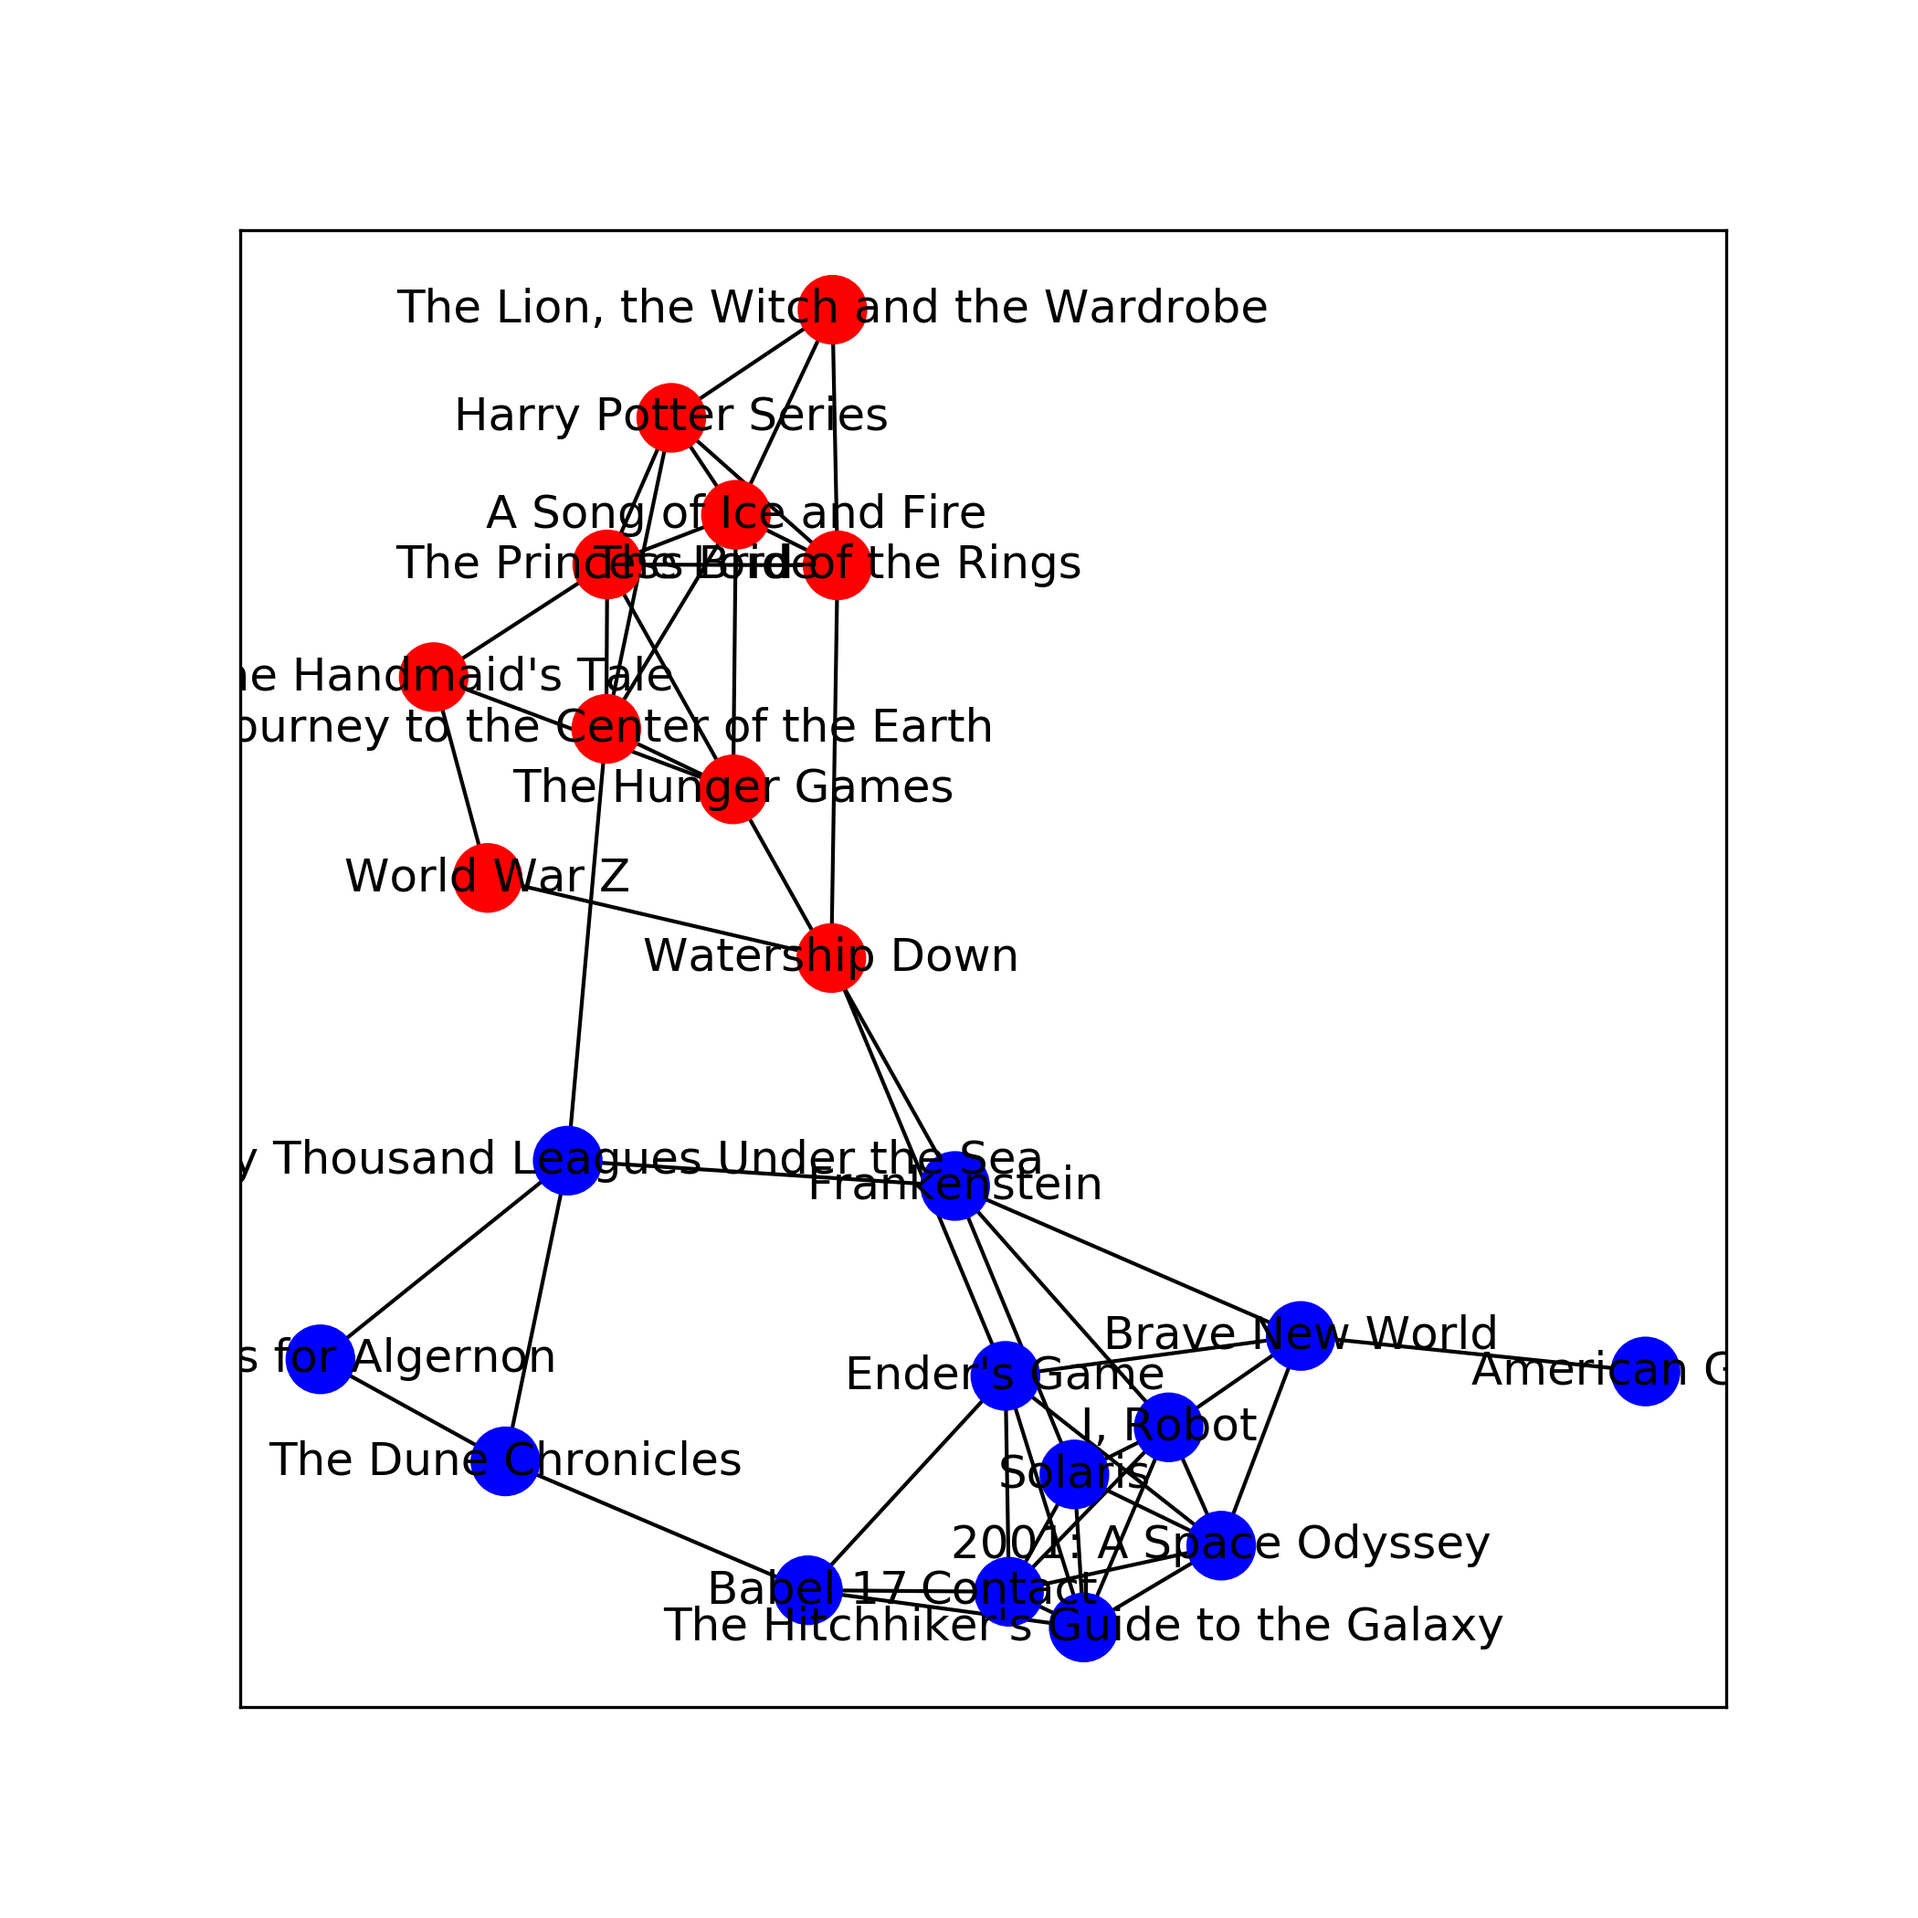
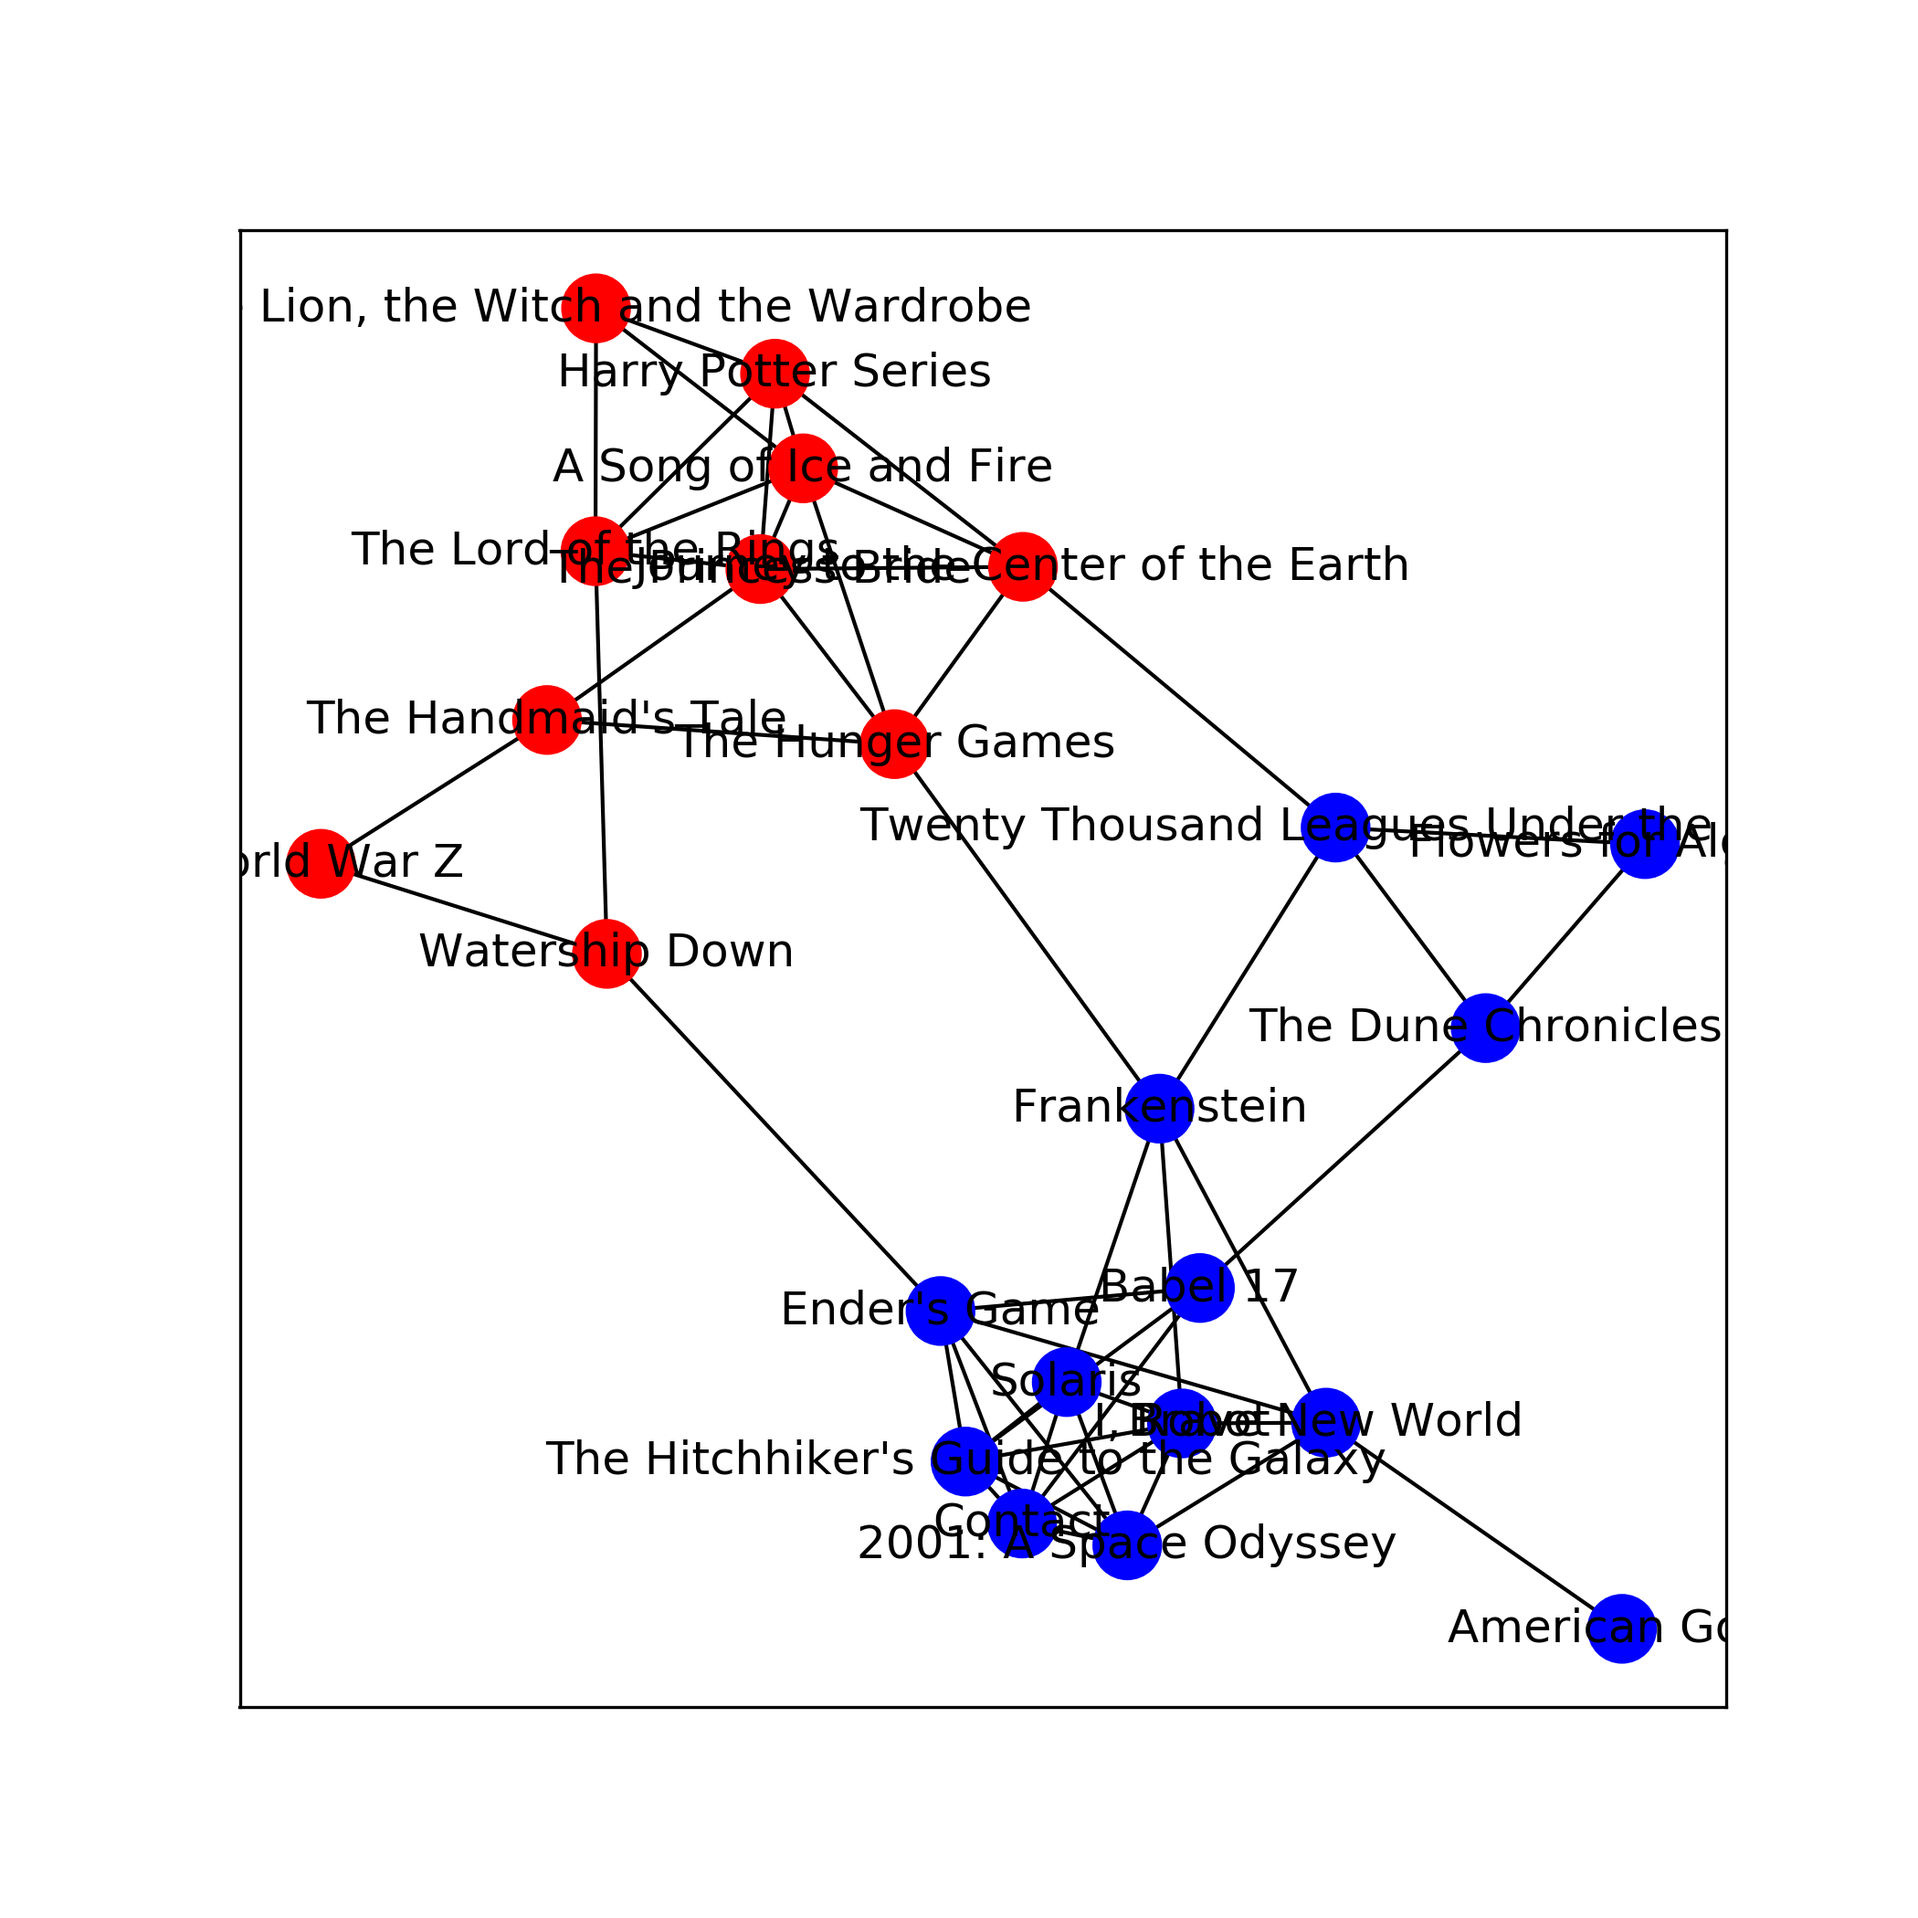
Finishes Girvan-Newman

Changed region(s): [[0.1238, 0.4952, 0.8976, 0.8667], [0.1238, 0.1238, 0.7429, 0.5571], [0.619, 0.4024, 0.8976, 0.4643]]

diff --git a/u2_d04-community/u2_d04-community.html b/u2_d04-community/u2_d04-community.html
@@ -4,7 +4,7 @@
     <title>Community Detection</title>
     <meta charset="utf-8" />
     <meta name="author" content="Giora Simchoni" />
-    <meta name="date" content="2020-01-19" />
+    <meta name="date" content="2020-01-20" />
     <head>
       <link rel="icon" href="../DSApps_logo.jpg" type="image/jpg"> 
       <link rel="shortcut icon" href="../DSApps_logo.jpg" type="image/jpg">
@@ -30,7 +30,7 @@ class: title-slide
 #### `gsimchoni@gmail.com and add #dsapps in subject`
 
 ### Stat. and OR Department, TAU
-### 2020-01-19
+### 2020-01-20
 
 ---
 
@@ -79,7 +79,7 @@ class: section-slide
 Start with dividing the network into 2 communities.
 
 .insight[
-What is the number of ways to divide n nodes into two distinct groups?
+💡 What is the number of ways to divide n nodes into two distinct groups?
 ]
 
 The *cut size* between two sets of nodes is the number of edges between them:
@@ -148,7 +148,7 @@ Finally, the solution for `\(\mathbf{s}\)` is:
 
 `\(\mathbf{s}=\mathbf{v_2}+\frac{n1-n2}{n}\)`
 
-Where `\(\mathbf{v_2}\)` is the eigenvector of `\(L\)`, which corresponds to `\(\lambda\)`, the second smallest (after zero) eigenvalue of `\(L\)`.
+Where `\(\mathbf{v_2}\)` is the Fiedler vector: eigenvector of `\(L\)`, which corresponds to `\(\lambda\)`, the second smallest (after zero) eigenvalue of `\(L\)`.
 
 But `\(\mathbf{s}\)` needs to be at `\(\pm1\)`, so bottom line we take the `\(n_1\)` most positive values in `\(\mathbf{v_2}\)` and put the relevant nodes in community 1, and the rest of the `\(n_2\)` nodes in community 2.
 
@@ -198,16 +198,69 @@ nx.draw_networkx(G, node_list = G.nodes,
 plt.show()
 ```
 
-&lt;img src="images/SpectralClustering-1.png" width="60%" /&gt;
-
-
+&lt;img src="images/SpectralClustering-1.png" width="50%" /&gt;
 
 ---
 
 class: section-slide
 
-# Betweenness
+# Girvan-Newman (Betweennees)
 
+---
+
+[Girvan &amp; Newman (2002)](https://www.pnas.org/content/pnas/99/12/7821.full.pdf) suggested a divisive strategy of repeatedly removing "strongest" edges from the network, slowly uncovering the community structure of the network, until we're left with `\(n\)` communities for `\(n\)` nodes.
+
+This will create a dendrogram of nodes, from a point where all are connected to where all are "leaves":
+
+&lt;img src = "images/dendrogram.png" style = "width: 40%"&gt;
+
+To choose the community structure best for you either cut the dendrogram where you get `\(k\)` communities or use some other metric.
+
+But what criterion to choose for "strongest" edges?
+
+---
+
+Girvan &amp; Newman suggested *edge betweenness* which is the same *betweenness centrality* we have defined, using edges:
+
+`\(x_e = \sum_{u,v}\frac{\tau(u,v|e)}{\tau(u,v)}\)`
+
+Where `\(\tau(u,v)\)` is the number of shortest paths from node `\(u\)` to node `\(v\)` and `\(\tau(u,v|e)\)` is the number of those shortest paths which pass through edge `\(e\)`.
+
+To summarize:
+
+1. Calculate the betweenness for all edges in the network.
+2. Remove the edge with the highest betweenness.
+3. Recalculate betweennesses for all edges affected by the removal.
+4. Repeat from step 2 until no edges remain.
+
+.insight[
+💡 Why recalculate betweenness at each iteration?
+]
+
+---
+
+
+```python
+communities = nx.community.girvan_newman(G) # returns an iterator on tuples of sets of nodes
+community1, community2 = tuple(next(communities)) # we take the first tuple for 2 communities
+
+node_colors = []
+for book in G.nodes:
+  if book in community1:
+    node_colors.append('blue')
+  else:
+    node_colors.append('red')
+nx.draw_networkx(G, node_list = G.nodes, node_color = node_colors)
+plt.show()
+```
+
+&lt;img src="images/Girvan-Newman-1.png" width="50%" /&gt;
+
+---
+
+Getting the actual dendrogram turned out to be quite laborious, you can see [here](https://stackoverflow.com/questions/59821151/plot-the-dendrogram-of-communities-found-by-networkx-girvan-newman-algorithm/59827653#59827653) how I got it to work or see the slides source (this chunk is hidden because it's a lot of code...)
+
+&lt;img src="images/scifi-dendrogram-1.png" width="70%" /&gt;
 ---
 
 class: section-slide
